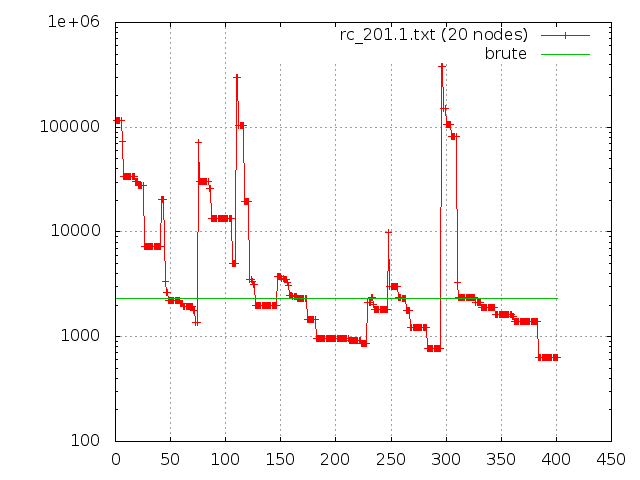
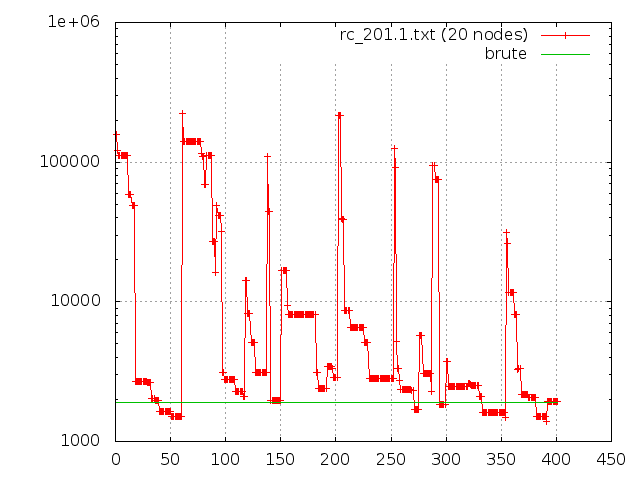
some results

diff --git a/program/simulated_anealing.py b/program/simulated_anealing.py
@@ -121,7 +121,7 @@ def brute_algorithm(instance):
         
 
 def temperature(x, delta = 1.0):
-    return 0.5 / (1.0 + math.exp(x)*10)  # math.sqrt(math.sqrt(math.sqrt(x))) #(math.exp(x) - math.exp(0))/(math.exp(1) - math.exp(0))
+    return math.exp((-1)*delta/x)#0.5 / (1.0 + math.exp(x)*10)  # math.sqrt(math.sqrt(math.sqrt(x))) #(math.exp(x) - math.exp(0))/(math.exp(1) - math.exp(0))
 
 def simulated_anealing(instance):
     trace = []
